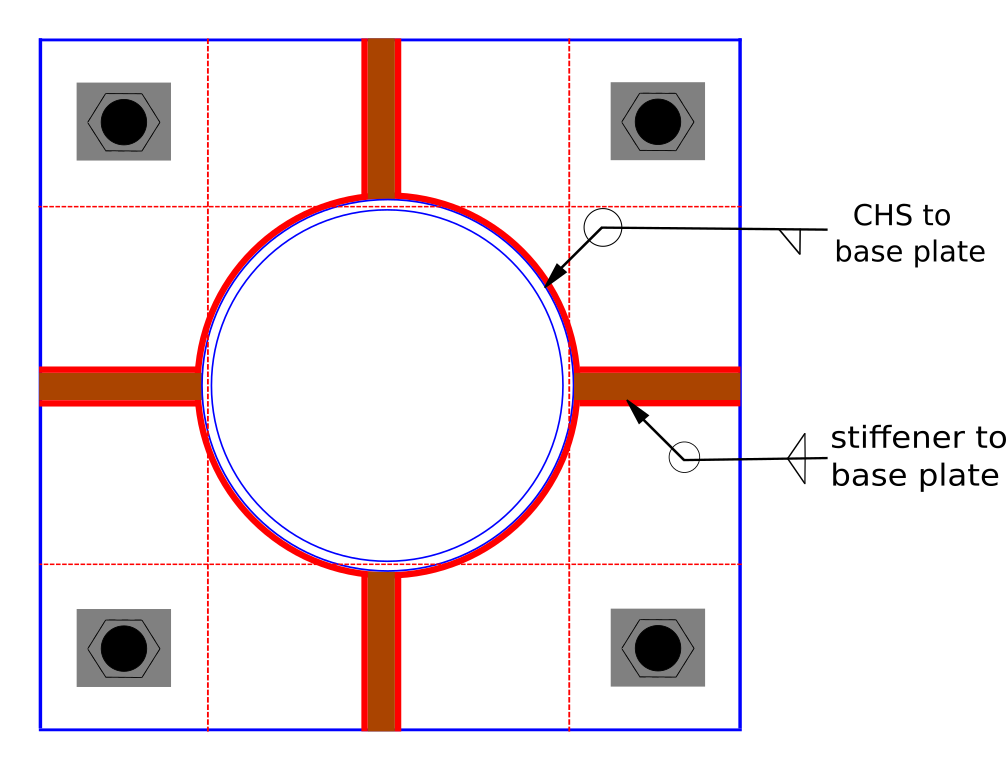
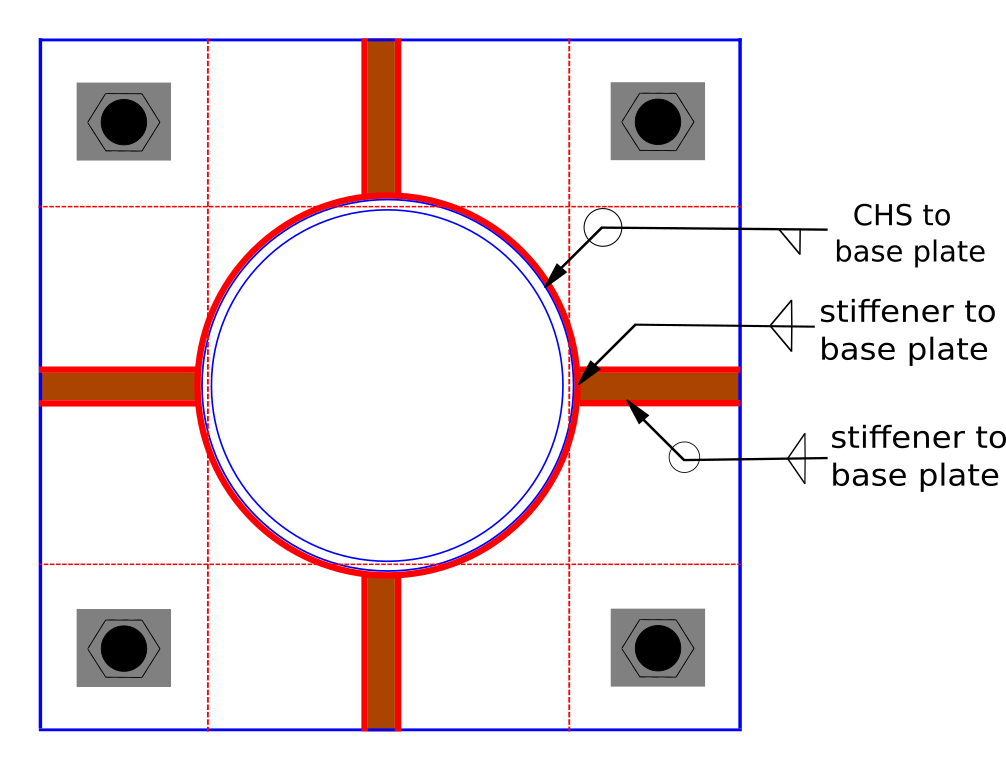
update images

diff --git a/design_type/connection/base_plate_connection.py b/design_type/connection/base_plate_connection.py
@@ -326,6 +326,11 @@ class BasePlateConnection(MomentConnection, IS800_2007, IS_5624_1993, IS1367_Par
         self.weld_size_web_max = 0.0
         self.weld_size_hollow = 0.0
 
+        self.weld_len_flange = 0.0
+        self.weld_len_web = 0.0
+        self.weld_bp_groove = 'No'
+        self.weld_size_bp = 0.0
+
         self.weld_size_flange = 0.0
         self.weld_size_web = 0.0
         self.gusset_along_flange = 'No'
@@ -381,6 +386,8 @@ class BasePlateConnection(MomentConnection, IS800_2007, IS_5624_1993, IS1367_Par
         self.stiffener_plt_thk = 0.0
         self.stiffener_plt_height = 0.0
         self.stiffener_nos = 0
+        self.weld_length_stiffener_plt = 0.0
+        self.weld_size_stiffener_plt = 0.0
 
         self.shear_on_gusset = 0.0
         self.moment_on_gusset = 0.0
@@ -394,7 +401,9 @@ class BasePlateConnection(MomentConnection, IS800_2007, IS_5624_1993, IS1367_Par
         self.moment_capa_stiffener_along_flange = 0.0
         self.z_e_stiffener_along_flange = 0.0
         self.z_p_stiffener_along_flange = 0.0
+        self.weld_size_stiffener_along_flange = 0.0
 
+        self.weld_size_stiffener_along_web = 0.0
         self.shear_on_stiffener_along_web = 0.0
         self.shear_capa_stiffener_along_web = 0.0
         self.moment_on_stiffener_along_web = 0.0
@@ -402,6 +411,7 @@ class BasePlateConnection(MomentConnection, IS800_2007, IS_5624_1993, IS1367_Par
         self.z_e_stiffener_along_web = 0.0
         self.z_p_stiffener_along_web = 0.0
 
+        self.weld_size_stiffener_across_web = 0.0
         self.shear_on_stiffener_across_web = 0.0
         self.shear_capa_stiffener_across_web = 0.0
         self.moment_on_stiffener_across_web = 0.0
@@ -1263,10 +1273,16 @@ class BasePlateConnection(MomentConnection, IS800_2007, IS_5624_1993, IS1367_Par
 
         if self.connectivity == 'Moment Base Plate':
 
-            if (self.shear_key_along_ColDepth == 'Yes') or (self.shear_key_along_ColWidth == 'Yes'):
+            if self.weld_bp_groove == 'Yes':
                 web_groove_weld = 'Yes'
             else:
                 web_groove_weld = 'No'
+
+            if web_groove_weld == 'No':
+                if (self.shear_key_along_ColDepth == 'Yes') or (self.shear_key_along_ColWidth == 'Yes'):
+                    web_groove_weld = 'Yes'
+                else:
+                    web_groove_weld = 'No'
 
             if (self.column_tf < 40.0) and (web_groove_weld == 'No'):
                 weld_path = './ResourceFiles/images/Moment_BP_weld_details_1-1.png'
@@ -1279,7 +1295,16 @@ class BasePlateConnection(MomentConnection, IS800_2007, IS_5624_1993, IS1367_Par
             height = 565
 
         elif self.connectivity == 'Welded Column Base':
-            weld_path = './ResourceFiles/images/BP_welded_weld_details.png'
+            if self.weld_bp_groove == 'No':
+                weld_path = './ResourceFiles/images/BP_welded_weld_details.png'
+            else:
+                if self.column_tf < 40.0:
+                    weld_path = './ResourceFiles/images/Welded_BP_single_bevel.png'
+                if self.column_tf >= 40.0:
+                    weld_path = './ResourceFiles/images/Welded_BP_double_J.png'
+                else:
+                    weld_path = './ResourceFiles/images/BP_welded_weld_details.png'
+
             width = 915
             height = 545
 
@@ -1290,8 +1315,8 @@ class BasePlateConnection(MomentConnection, IS800_2007, IS_5624_1993, IS1367_Par
                 height = 590
             elif self.dp_column_designation[1:4] == 'RHS':
                 weld_path = './ResourceFiles/images/RHS_BP_weld_details.png'
-                width = 1093
-                height = 580
+                width = 880
+                height = 470
             elif self.dp_column_designation[1:4] == 'CHS':
                 weld_path = './ResourceFiles/images/CHS_BP_weld_details.png'
                 width = 785
@@ -2328,6 +2353,18 @@ class BasePlateConnection(MomentConnection, IS800_2007, IS_5624_1993, IS1367_Par
         # weld
         self.dp_weld_fab = str(design_dictionary[KEY_DP_WELD_FAB])
         self.dp_weld_fu_overwrite = float(design_dictionary[KEY_DP_WELD_MATERIAL_G_O])
+
+        self.weld_bp = Weld(material_g_o=design_dictionary[KEY_DP_WELD_MATERIAL_G_O], type=design_dictionary[KEY_DP_WELD_TYPE],
+                                          fabrication=design_dictionary[KEY_DP_WELD_FAB])
+
+        self.weld_stiffener_flange = Weld(material_g_o=design_dictionary[KEY_DP_WELD_MATERIAL_G_O], type=design_dictionary[KEY_DP_WELD_TYPE],
+                                          fabrication=design_dictionary[KEY_DP_WELD_FAB])
+        self.weld_stiffener_web = self.weld_stiffener_flange
+        self.weld_stiffener_across_web = self.weld_stiffener_flange
+
+        self.weld_stiffener_SHS = self.weld_stiffener_flange
+        self.weld_stiffener_RHS = self.weld_stiffener_flange
+        self.weld_stiffener_CHS = self.weld_stiffener_flange
 
         # detailing
         self.dp_detail_edge_type = str(design_dictionary[KEY_DP_DETAILING_EDGE_TYPE])
@@ -5446,7 +5483,41 @@ class BasePlateConnection(MomentConnection, IS800_2007, IS_5624_1993, IS1367_Par
                 self.weld_size_flange = self.column_tf  # mm
                 self.weld_size_web = self.column_tw  # mm
 
-        # design of weld for the shear key (shear key will be groove welded)
+        # design of weld - column to base plate connection
+        if self.connectivity == 'Welded Column Base':
+            self.weld_len_flange = 2 * (self.column_bf + (self.column_bf - self.column_tw - (2 * self.column_r1) - (2 * self.column_r2)) - 10)  # mm
+            self.weld_len_web = 2 * (self.column_D - (2 * self.column_tf) - (2 * self.column_r1) - (2 * 10))  # mm
+
+            self.weld_bp.set_min_max_sizes(max(self.column_tf, self.column_tw), self.plate_thk_provided, special_circumstance=False,
+                                           fusion_face_angle=90)
+
+            if self.weld_bp.min_size < self.weld_bp.max_size:
+                self.weld_bp_groove = 'No'
+                self.weld_size_bp = (max(self.load_axial_compression, self.load_shear_major, self.load_shear_minor) * math.sqrt(3) * self.gamma_mw) / \
+                                    (0.7 * (self.weld_len_flange + self.weld_len_web) * self.weld_fu)
+                self.weld_size_bp = max(self.weld_size_bp + 2, self.weld_bp.min_size)
+                self.weld_size_bp = round_up(self.weld_size_bp, 2)
+                if self.weld_size_bp > self.weld_bp.max_size:
+                    self.weld_bp_groove = 'Yes'
+            else:
+                self.weld_bp_groove = 'Yes'
+
+        elif self.connectivity == 'Moment Base Plate':
+            self.weld_len_web = 2 * (self.column_D - (2 * self.column_tf) - (2 * self.column_r1) - (2 * 10))  # mm
+
+            self.weld_bp.set_min_max_sizes(self.column_tw, self.plate_thk_provided, special_circumstance=False, fusion_face_angle=90)
+
+            if self.weld_bp.min_size < self.weld_bp.max_size:
+                self.weld_bp_groove = 'No'
+                self.weld_size_bp = (self.load_axial_compression * math.sqrt(3) * self.gamma_mw) / (0.7 * self.weld_len_web * self.weld_fu)
+                self.weld_size_bp = max(self.weld_size_bp, self.weld_bp.min_size)
+                self.weld_size_bp = round_up(self.weld_size_bp, 2)
+                if self.weld_size_bp > self.weld_bp.max_size:
+                    self.weld_bp_groove = 'Yes'
+            else:
+                self.weld_bp_groove = 'Yes'
+
+        # design of weld for the shear key (shear key will be groove welded - single bevel)
         if (self.load_shear_major or self.load_shear_minor) > 0:
             if self.shear_key_along_ColDepth or self.shear_key_along_ColWidth == 'Yes':
                 self.weld_size_shear_key = self.shear_key_thk
@@ -6127,21 +6198,51 @@ class BasePlateConnection(MomentConnection, IS800_2007, IS_5624_1993, IS1367_Par
                 self.moment_on_stiffener = 'N/A'
                 self.moment_capa_stiffener = 'N/A'
 
-        # # update detailing parameters
-        # self.end_distance = self.cl_10_2_4_2_min_edge_end_dist(self.anchor_dia_provided_outside_flange, self.dp_anchor_hole, self.dp_detail_edge_type)
-        # self.end_distance = round_up(1.5 * self.end_distance, 5)  # mm, adding 50% extra to end distance to incorporate weld etc.
-        # self.edge_distance_out = self.end_distance
-        #
-        # # minimum required dimensions (L X B) of the base plate [as per the detailing criteria]
-        # self.bp_length_provided = round_up(self.column_D + 2 * (2 * self.end_distance), 5)  # mm
-        #
-        # if (self.connectivity == 'Welded Column Base') or (self.connectivity == 'Moment Base Plate'):
-        #     # considering clearance equal to 1.5 times the edge distance (on each side) along the width of the base plate
-        #     self.bp_width_provided = round_up(self.column_bf + (1.5 * self.edge_distance_out) + (1.5 * self.edge_distance_out), 5)  # mm
-        # elif self.connectivity == 'Hollow/Tubular Column Base':
-        #     self.bp_width_provided = round_up(self.column_bf + (2 * (2 * self.end_distance)), 5)  # mm
-        # else:
-        #     pass
+        # weld design for stiffeners
+
+        if (self.connectivity == 'Welded Column Base') or (self.connectivity == 'Moment Base Plate'):
+
+            if self.stiffener_across_web == 'Yes':
+                self.weld_stiffener_across_web.set_min_max_sizes(self.stiffener_plt_thick_across_web, self.column_tw, special_circumstance=False,
+                                                                 fusion_face_angle=90)
+                self.weld_size_stiffener_across_web = min(self.weld_stiffener_across_web.min_size + 2, self.weld_stiffener_across_web.max_size)
+                self.weld_size_stiffener_across_web = round_up(self.weld_size_stiffener_across_web, 2)
+
+            if self.stiffener_along_flange == 'Yes':
+                self.weld_stiffener_flange.set_min_max_sizes(self.stiffener_plt_thick_along_flange, self.plate_thk_provided,
+                                                                   special_circumstance=False, fusion_face_angle=90)
+                self.weld_size_stiffener_along_flange = min(self.weld_stiffener_flange.min_size + 2, self.weld_stiffener_flange.max_size)
+                self.weld_size_stiffener_along_flange = round_up(self.weld_size_stiffener_along_flange, 2)
+
+            if self.stiffener_along_web == 'Yes':
+                self.weld_stiffener_web.set_min_max_sizes(self.stiffener_plt_thick_along_web, self.plate_thk_provided,
+                                                                   special_circumstance=False, fusion_face_angle=90)
+                self.weld_size_stiffener_along_web = min(self.weld_stiffener_web.min_size + 2, self.weld_stiffener_web.max_size)
+                self.weld_size_stiffener_along_web = round_up(self.weld_size_stiffener_along_web, 2)
+
+        elif self.connectivity == 'Hollow/Tubular Column Base':
+            if (self.dp_column_designation[1:4] == 'SHS') or (self.dp_column_designation[1:4] == 'RHS'):
+                if (self.stiffener_along_D == 'Yes') or (self.stiffener_along_B == 'Yes'):
+                    self.weld_stiffener_SHS.set_min_max_sizes(self.stiffener_plt_thk, self.plate_thk_provided, special_circumstance=False,
+                                                              fusion_face_angle=90)
+
+                    end_return_reduction = 2 * self.weld_stiffener_SHS.min_size
+                    self.weld_length_stiffener_plt = (2 * (self.stiffener_plt_height - 25)) - end_return_reduction
+                    self.weld_size_stiffener_plt = (self.shear_on_stiffener * 1e3 * math.sqrt(3) * self.gamma_mw) / \
+                                                   (0.7 * self.weld_length_stiffener_plt * self.dp_weld_fu_overwrite)
+                    self.weld_size_stiffener_plt = max(self.weld_size_stiffener_plt, self.weld_stiffener_SHS.min_size)
+                    self.weld_size_stiffener_plt = round_up(self.weld_size_stiffener_plt, 2)
+            else:
+                if self.stiffener_along_D == 'Yes':
+                    self.weld_stiffener_CHS.set_min_max_sizes(self.stiffener_plt_thk, self.plate_thk_provided, special_circumstance=False,
+                                                              fusion_face_angle=90)
+
+                    end_return_reduction = 2 * self.weld_stiffener_CHS.min_size
+                    self.weld_length_stiffener_plt = (2 * (self.stiffener_plt_height - 25)) - end_return_reduction
+                    self.weld_size_stiffener_plt = (self.shear_on_stiffener * 1e3 * math.sqrt(3) * self.gamma_mw) / \
+                                                   (0.7 * self.weld_length_stiffener_plt * self.dp_weld_fu_overwrite)
+                    self.weld_size_stiffener_plt = max(self.weld_size_stiffener_plt, self.weld_stiffener_CHS.min_size)
+                    self.weld_size_stiffener_plt = round_up(self.weld_size_stiffener_plt, 2)
 
     def additional_calculations(self):
         """ Perform additional and common checks
@@ -7839,6 +7940,9 @@ class BasePlateConnection(MomentConnection, IS800_2007, IS_5624_1993, IS1367_Par
                       get_pass_fail(self.moment_on_stiffener_along_flange, self.moment_capa_stiffener_along_flange, relation='leq'))
                 self.report_check.append(t8)
 
+                t5 = ('Weld size $(mm)$', self.weld_stiffener_flange.min_size, self.weld_size_stiffener_along_flange, 'Pass')
+                self.report_check.append(t5)
+
             if self.stiffener_along_web == 'Yes':
 
                 t1 = ('SubSection', 'Stiffener Design - Along Column Web', '|p{3.5cm}|p{6cm}|p{5.5cm}|p{1cm}|')
@@ -7899,6 +8003,9 @@ class BasePlateConnection(MomentConnection, IS800_2007, IS_5624_1993, IS1367_Par
                       get_pass_fail(self.moment_on_stiffener_along_web, self.moment_capa_stiffener_along_web, relation='leq'))
                 self.report_check.append(t8)
 
+                t5 = ('Weld size $(mm)$', self.weld_stiffener_web.min_size, self.weld_size_stiffener_along_web, 'Pass')
+                self.report_check.append(t5)
+
             if self.stiffener_across_web == 'Yes':
 
                 t1 = ('SubSection', 'Stiffener Design - Across Column Web', '|p{3.5cm}|p{6cm}|p{5.5cm}|p{1cm}|')
@@ -7918,6 +8025,9 @@ class BasePlateConnection(MomentConnection, IS800_2007, IS_5624_1993, IS1367_Par
                       get_pass_fail(max(self.thk_req_stiffener_across_web, self.column_tw), self.stiffener_plt_thick_across_web, relation='leq') and
                       get_pass_fail(self.standard_plate_thk[-1], self.stiffener_plt_thick_across_web, relation='geq'))
                 self.report_check.append(t4)
+
+                t5 = ('Weld size $(mm)$', self.weld_stiffener_across_web.min_size, self.weld_size_stiffener_across_web, 'Pass')
+                self.report_check.append(t5)
 
                 # if (self.connectivity == 'Welded Column Base') or (self.connectivity == 'Hollow/Tubular Column Base'):
                 #     t5 = ('Max. stress at Stiffener $(mm)$', self.bearing_strength_concrete, stiffener_stress_across_web(self.sigma_web, 0, 0,
@@ -8056,6 +8166,12 @@ class BasePlateConnection(MomentConnection, IS800_2007, IS_5624_1993, IS1367_Par
 
                 self.report_check.append(t8)
 
+                if (self.dp_column_designation[1:4] == 'SHS') or (self.dp_column_designation[1:4] == 'RHS'):
+                    t1 = ('Weld size (mm)', self.weld_stiffener_SHS.min_size, self.weld_size_stiffener_plt, "Pass")
+                else:
+                    t1 = ('Weld size (mm)', self.weld_stiffener_CHS.min_size, self.weld_size_stiffener_plt, "Pass")
+                self.report_check.append(t1)
+
         # Check 9: Continuity Plate Design
         if self.connectivity == 'Moment Base Plate':
             if self.stiffener_inside_flange == 'Yes':
@@ -8168,6 +8284,44 @@ class BasePlateConnection(MomentConnection, IS800_2007, IS_5624_1993, IS1367_Par
                                                                                                                 beta_b=1, location='L2'),
                       get_pass_fail(self.shear_key_moment_2 * 1e-6, self.moment_capacity_key2, relation='leq'))
                 self.report_check.append(t3)
+
+        # Check 11: Weld checks
+
+        if self.connectivity == 'Welded Column Base':
+
+            t1 = ('SubSection', 'Weld Design - Column to Base Plate Connection', '|p{3.5cm}|p{5.3cm}|p{6.5cm}|p{1.2cm}|')
+            self.report_check.append(t1)
+
+            t1 = ('Weld strength $(N/mm^2)$', weld_fu(self.dp_weld_fu_overwrite, self.dp_column_fu), weld_fu_provided(self.weld_fu),
+                  get_pass_fail(max(self.dp_weld_fu_overwrite, self.dp_column_fu), self.weld_fu, relation="geq"))
+            self.report_check.append(t1)
+
+            t1 = ('Total weld length at flange (mm)', "", round(self.weld_len_flange), "Pass")
+            self.report_check.append(t1)
+
+            t1 = ('Total weld length at web (mm)', "", round(self.weld_len_web), "Pass")
+            self.report_check.append(t1)
+
+            t1 = ('Weld size (mm)', self.weld_bp.min_size, self.weld_size_bp, "Pass")
+            self.report_check.append(t1)
+
+        if self.connectivity == 'Moment Base Plate':
+
+            if (self.shear_key_along_ColDepth == 'No') and (self.shear_key_along_ColWidth == 'No'):
+                if self.weld_bp_groove == 'No':
+
+                    t1 = ('SubSection', 'Weld Design - Column Web to Base Plate Connection', '|p{3.5cm}|p{5.3cm}|p{6.5cm}|p{1.2cm}|')
+                    self.report_check.append(t1)
+
+                    t1 = ('Weld strength $(N/mm^2)$', weld_fu(self.dp_weld_fu_overwrite, self.dp_column_fu), weld_fu_provided(self.weld_fu),
+                          get_pass_fail(max(self.dp_weld_fu_overwrite, self.dp_column_fu), self.weld_fu, relation="geq"))
+                    self.report_check.append(t1)
+
+                    t1 = ('Total weld length at web (mm)', "", round(self.weld_len_web), "Pass")
+                    self.report_check.append(t1)
+
+                    t1 = ('Weld size (mm)', self.weld_bp.min_size, self.weld_size_bp, "Pass")
+                    self.report_check.append(t1)
 
         # End of checks
 

diff --git a/osdagMainPage.py b/osdagMainPage.py
@@ -279,7 +279,7 @@ class OsdagMainWindow(QMainWindow):
                                                     'PEB' : self.Under_Development,
                                                     },
                                 'Base Plate':[
-                                        ('Base Plate', 'ResourceFiles/images/BasePlate.jpeg', 'Base_Plate'),
+                                        ('Base Plate', 'ResourceFiles/images/base_plate.png', 'Base_Plate'),
                                         self.show_base_plate,
                                             ],
                                 'Truss Connection' : self.Under_Development,
